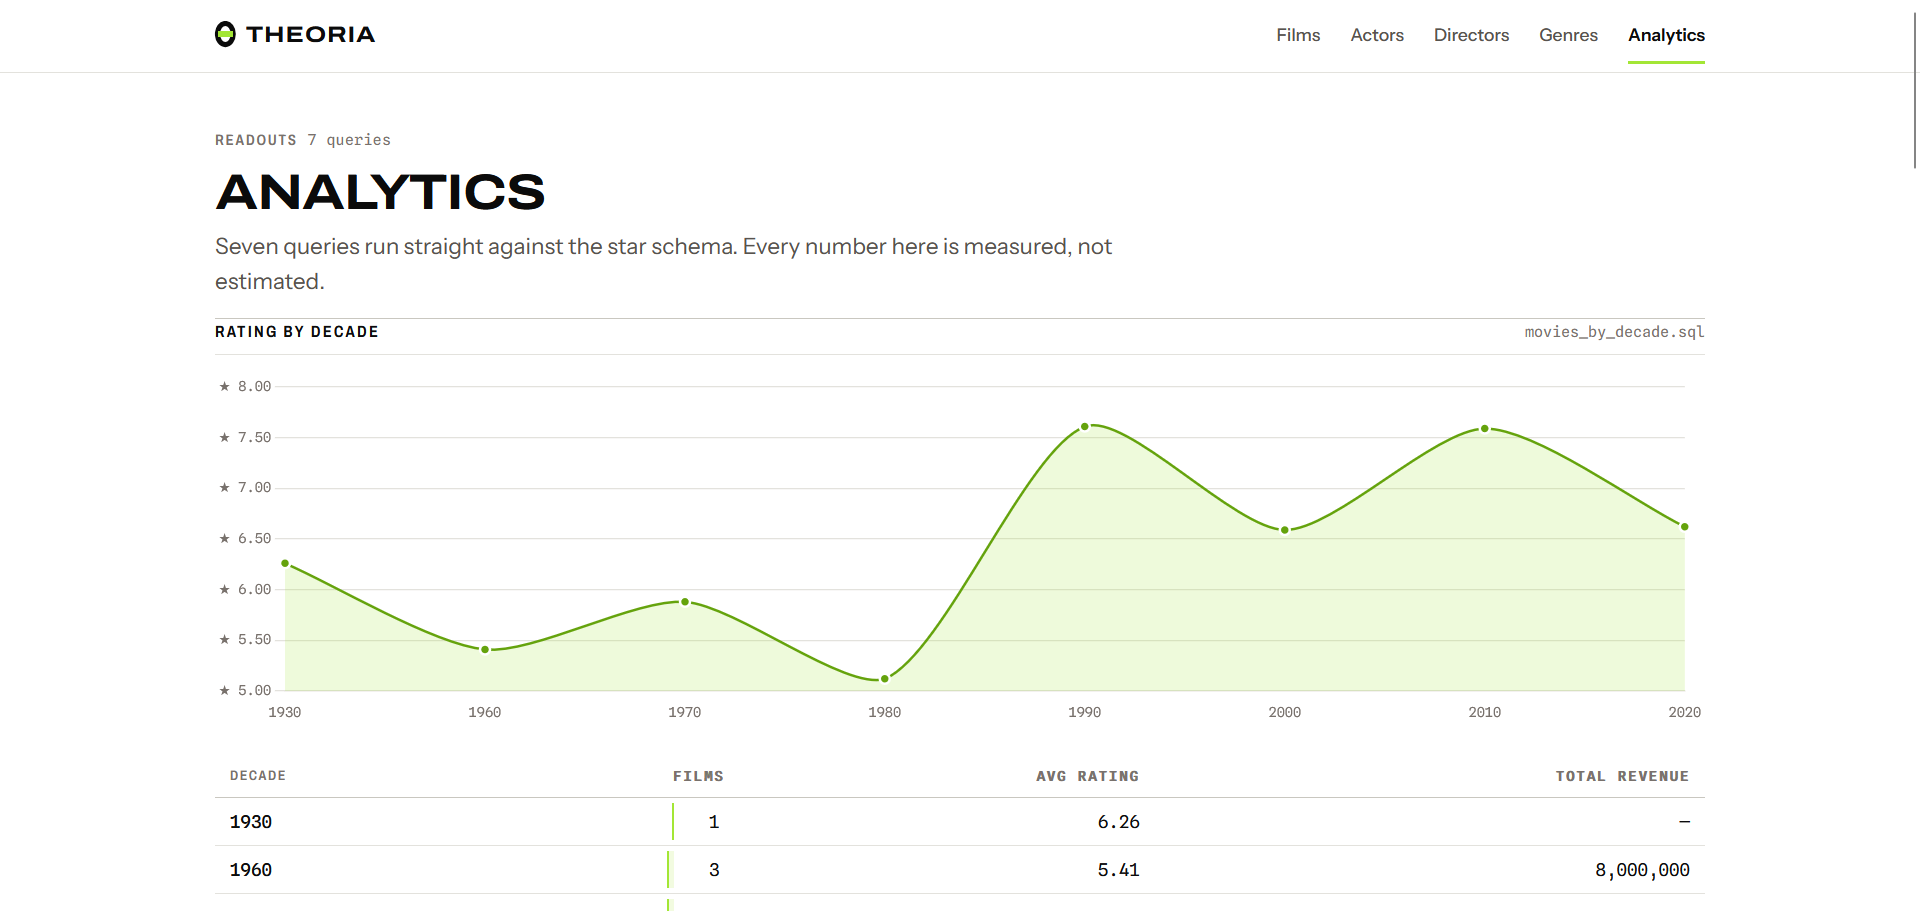
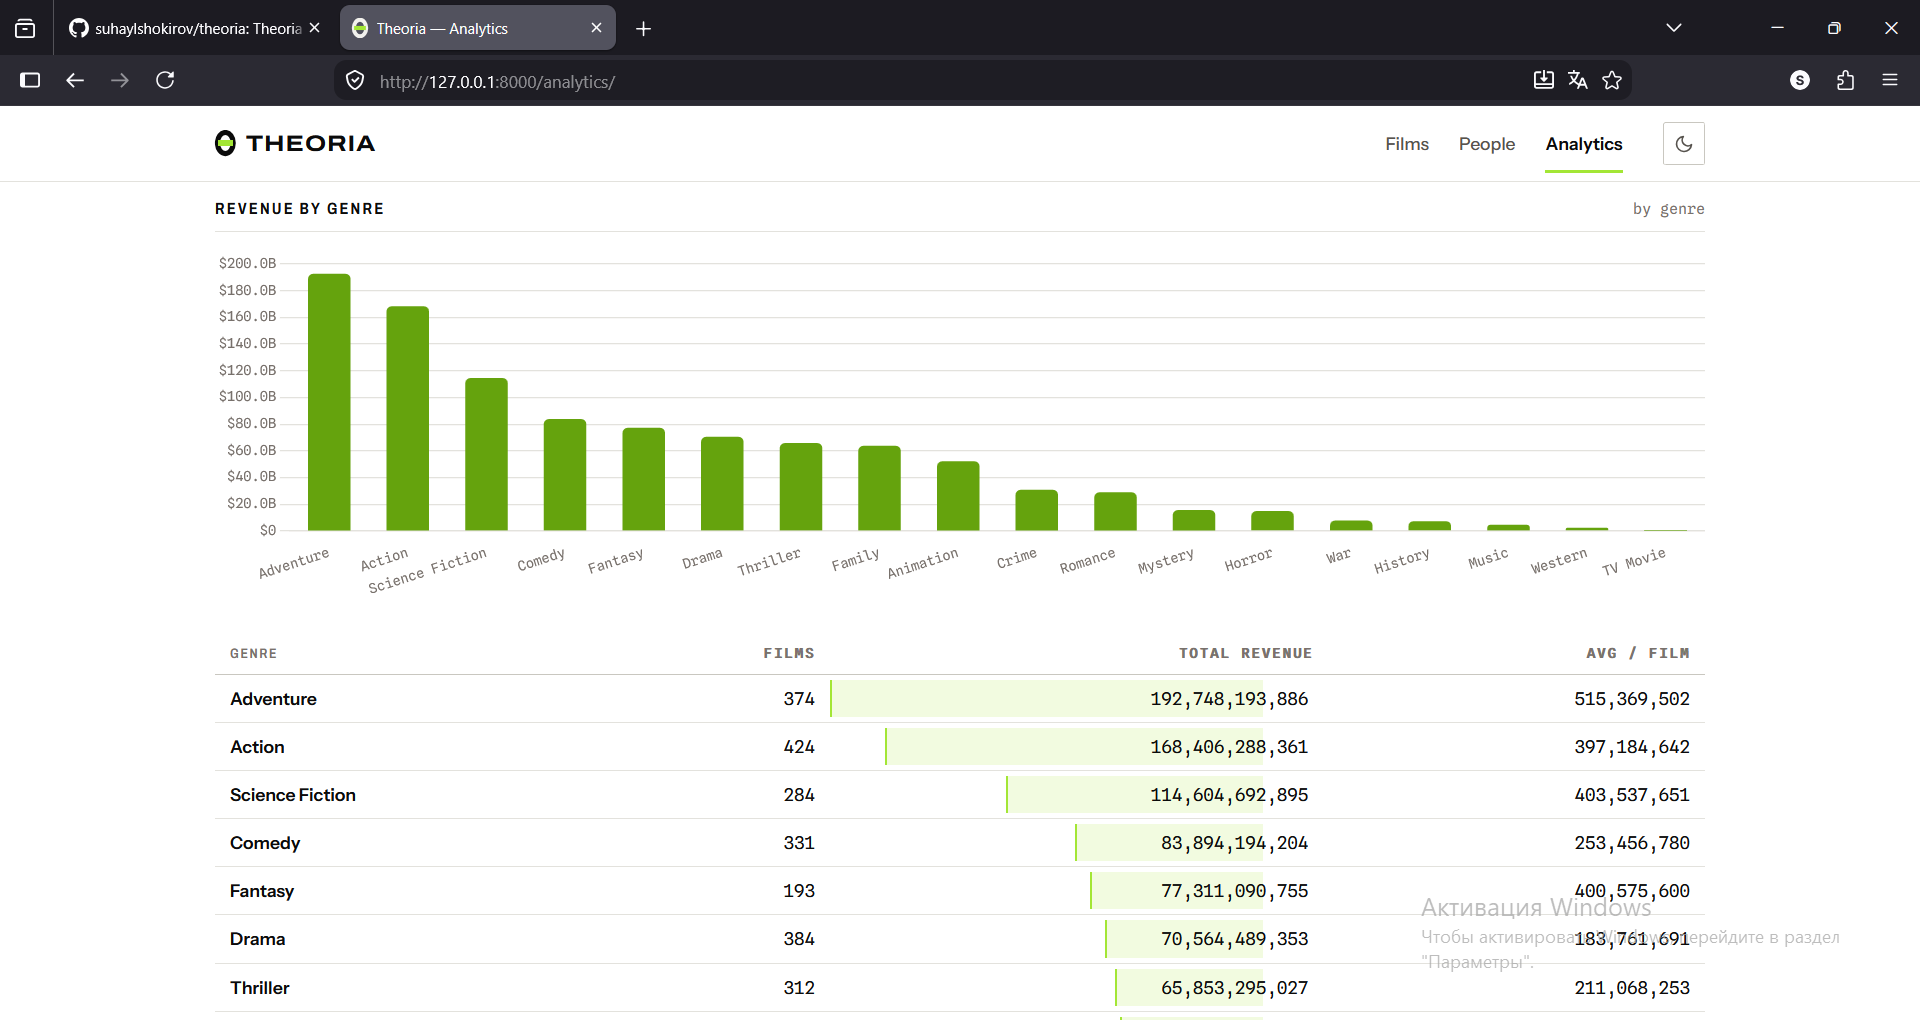
Refresh screenshots for current UI

diff --git a/README.md b/README.md
@@ -35,11 +35,11 @@ extraction step never collected it.
 
 | Home | Analytics |
 |---|---|
-| ![Home — the catalog as a contact sheet, top-rated films keyed in lime](docs/screenshots/home.png) | ![Analytics — average rating by decade](docs/screenshots/analytics.png) |
+| ![Home — catalog totals over a poster wall of the collection](docs/screenshots/homepage.png) | ![Analytics — total revenue by genre, charted and ranked](docs/screenshots/analytics.png) |
 
 | Film catalog | Film detail |
 |---|---|
-| ![Film list — search, sort and a poster grid](docs/screenshots/movies.png) | ![Film detail — poster plate, record list and cast](docs/screenshots/movie-detail.png) |
+| ![Film list — search and sort by newest, rating, revenue or title](docs/screenshots/movies.png) | ![Film detail — poster plate and the record list of measures and links](docs/screenshots/movie_detail.png) |
 
 ---
 
